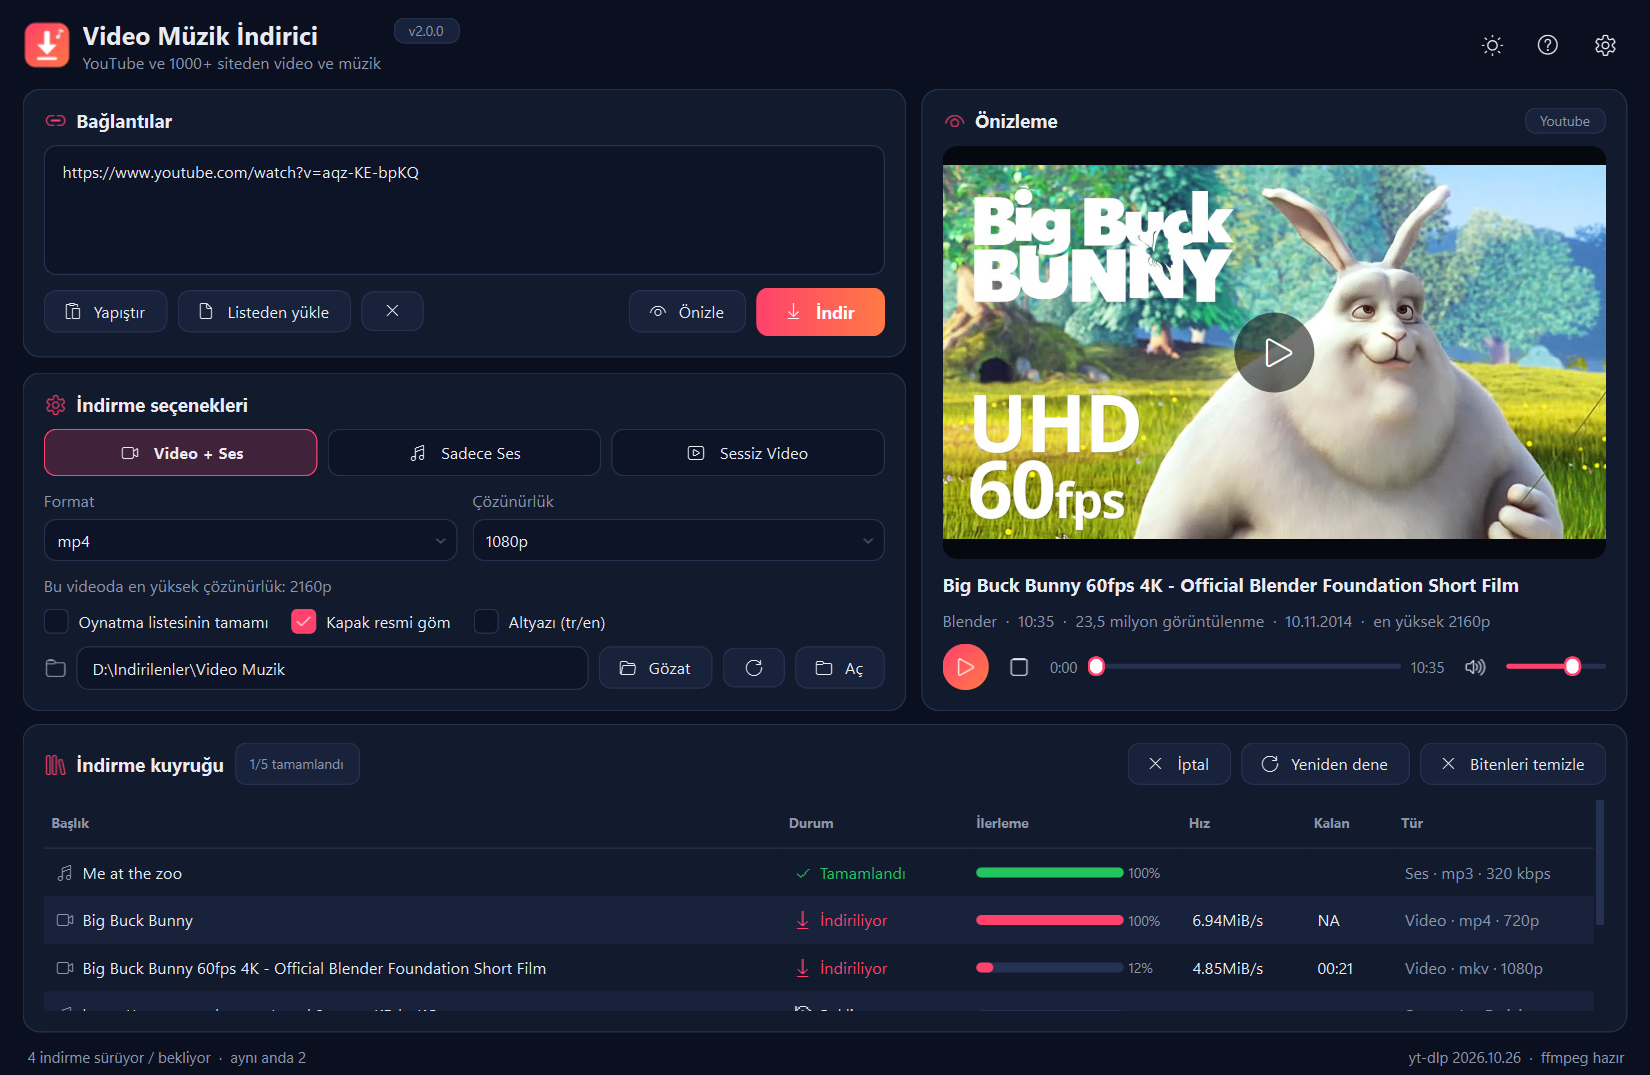
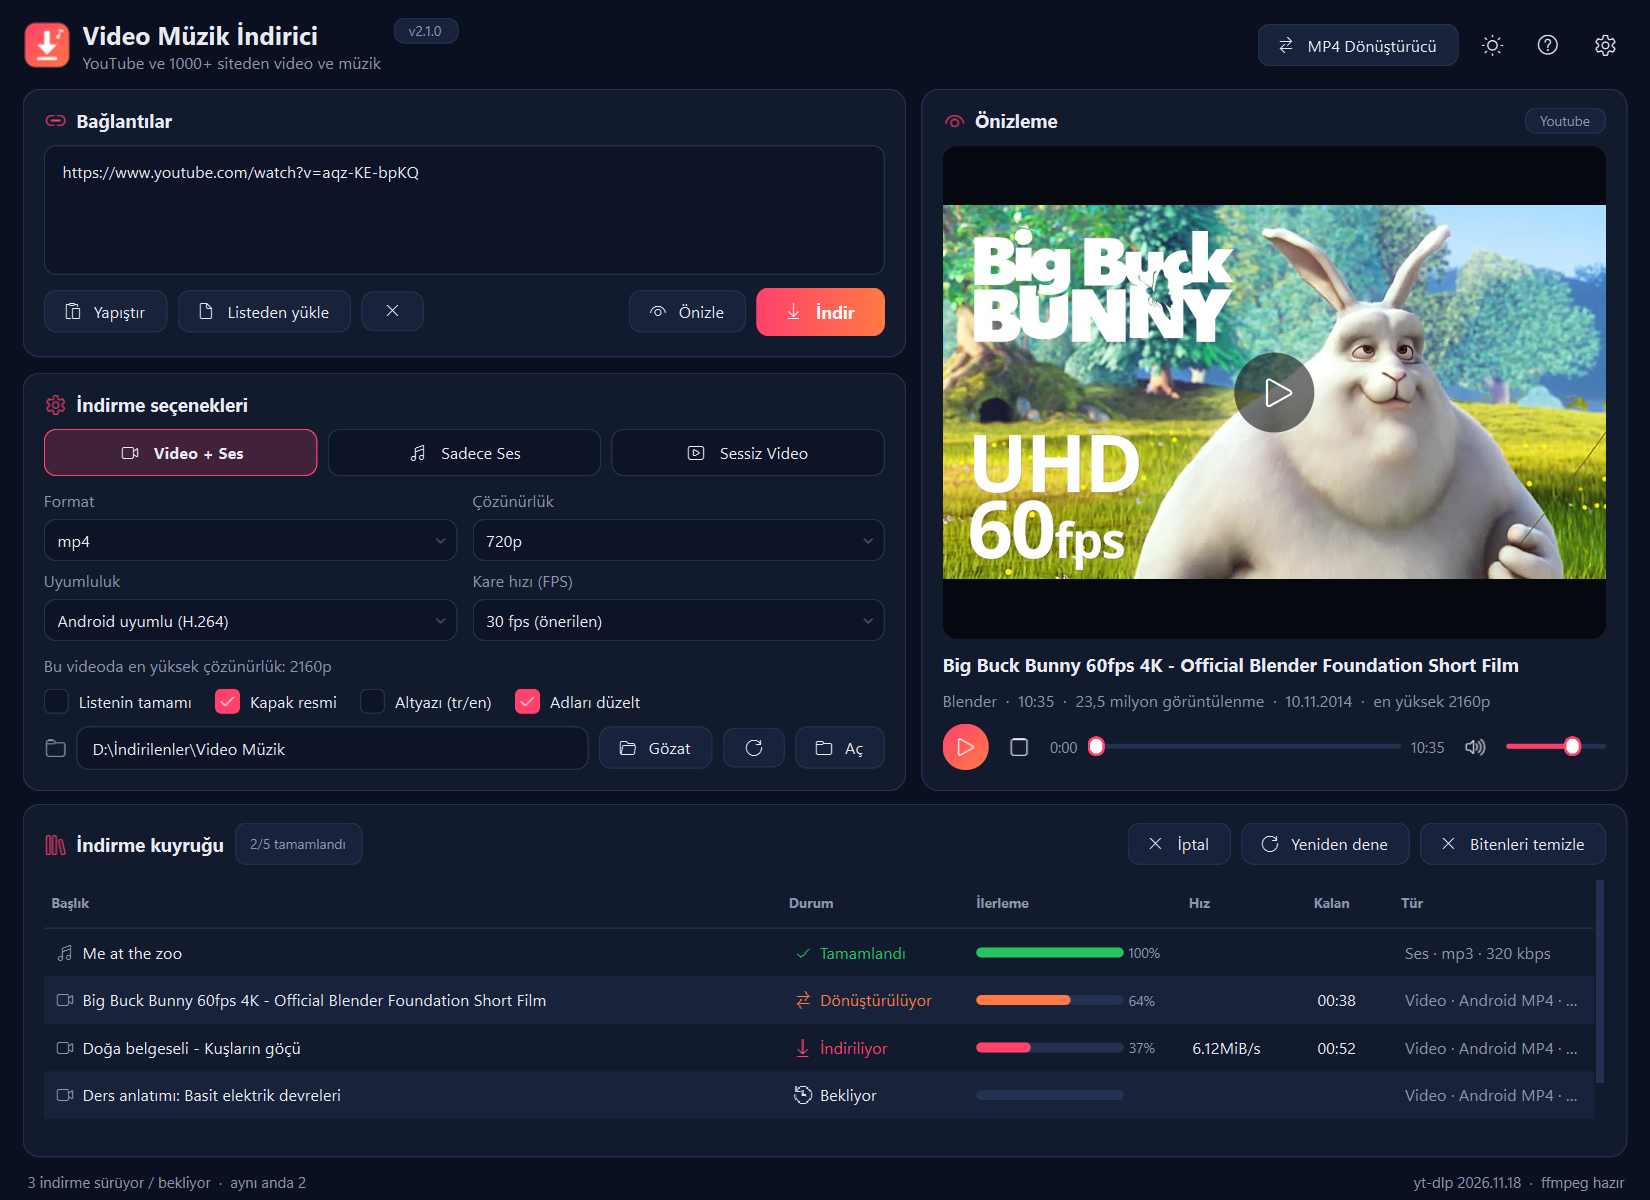
Belgeler 2.1.0'a göre güncellendi: yeni ekran görüntüleri, SSS ve teknik bilgi
- Ekran görüntüleri 2.1.0 arayüzüyle yenilendi (Uyumluluk / FPS seçenekleri,
  MP4 Dönüştürücü düğmesi); MP4 Dönüştürücü penceresi görseli eklendi
- SSS: "ses var görüntü yok", görünmeyen dosya/klasör ve "Dönüştürülüyor"
  soruları eklendi; eski format önerileri düzeltildi
- TEKNIK: Android uyumluluğu ve dönüştürme bölümü (ffprobe, compat_plan, FFmpeg ayarları)
- tools/ekran-goruntuleri.py: belge görsellerini örnek verilerle yeniden üretir

diff --git a/tools/ekran-goruntuleri.py b/tools/ekran-goruntuleri.py
@@ -1,0 +1,116 @@
+# Belgelerdeki ekran görüntülerini üretir: gerçek arayüz, örnek verilerle (indirme yapılmaz).
+# Kullanım (depo kökünde):  python tools/ekran-goruntuleri.py          -> koyu tema + diğer pencereler
+#                           python tools/ekran-goruntuleri.py light    -> açık tema ana ekran
+# Çıktı: docs/img/*.png. Ayarlar geçici klasörde tutulur; kullanıcının kendi ayarlarına dokunulmaz.
+import os, sys, tempfile, re
+REPO = os.path.dirname(os.path.dirname(os.path.abspath(__file__)))
+OUT = os.path.join(REPO, "docs", "img")
+os.environ["APPDATA"] = tempfile.mkdtemp(prefix="vmi-ekran-")
+sys.path.insert(0, REPO)
+
+import core, ui_qt
+from ui_qt import *  # noqa
+from PySide6.QtCore import QTimer, Qt
+from PySide6.QtGui import QPixmap
+from PySide6.QtWidgets import QApplication
+
+ui_qt.find_exe = lambda n: rf"C:\araclar\{n}.exe"
+ui_qt.MainWindow._tools_ready = lambda self, j: None
+core.Downloader.add = lambda self, j: None
+THEME = sys.argv[1] if len(sys.argv) > 1 else "dark"
+
+def thumb_bytes():
+    return core.fetch_bytes("https://i.ytimg.com/vi/aqz-KE-bpKQ/maxresdefault.jpg")
+
+def latest_notes():
+    log = open(os.path.join(REPO, "CHANGELOG.md"), encoding="utf-8").read()
+    parts = re.findall(r"^## \[([^\]]+)\][^\n]*\n(.*?)(?=^## \[|\Z)", log, re.S | re.M)
+    (ver, notes), prev = parts[0], (parts[1][0] if len(parts) > 1 else "")
+    return ver, prev, notes.strip()
+
+
+app = ui_qt.create_app()
+s = core.load_settings()
+s["theme"] = THEME
+s["folder"] = r"D:\İndirilenler\Video Müzik"
+core.save_settings(s)
+win = ui_qt.MainWindow()
+win.dl.active_count = lambda: 3
+win.ytdlp_ver = "2026.11.18"
+win.resize(1320, 960)
+win.show()
+win.folder_edit.setText(r"D:\İndirilenler\Video Müzik")
+
+URL = "https://www.youtube.com/watch?v=aqz-KE-bpKQ"
+win.url_edit.blockSignals(True)
+win.url_edit.setPlainText(URL)
+win.url_edit.blockSignals(False)
+
+def fill():
+    win.preview_token = 1
+    win._on_probe(1, True, {
+        "url": URL, "title": "Big Buck Bunny 60fps 4K - Official Blender Foundation Short Film",
+        "is_playlist": False, "playlist_title": "", "count": 0, "uploader": "Blender",
+        "duration": 635, "views": 23500000, "date": "20141110", "heights": [2160, 1440, 1080, 720],
+        "site": "Youtube", "thumbnail": "", "has_video": True})
+    win._on_thumb(1, True, thumb_bytes())
+
+    base = dict(win._current_opts())
+    def job(title, status, pct="", speed="", eta="", **o):
+        opts = dict(base); opts.update(o)
+        j = win._enqueue("https://www.youtube.com/watch?v=x", opts, title)
+        j.status, j.percent, j.speed, j.eta = status, pct, speed, eta
+        win._refresh_row(j)
+    job("Me at the zoo", "Tamamlandı", "100%", type="Sadece Ses", aformat="mp3", aquality="320 kbps")
+    job("Big Buck Bunny 60fps 4K - Official Blender Foundation Short Film", "Dönüştürülüyor", "64%", "", "00:38")
+    job("Doğa belgeseli - Kuşların göçü", "İndiriliyor", "37%", "6.12MiB/s", "00:52")
+    job("Ders anlatımı: Basit elektrik devreleri", "Bekliyor")
+    job("Çocuk şarkıları derlemesi", "Tamamlandı", "100%")
+    win.refresh_status()
+
+def shot_main():
+    fill()
+    QTimer.singleShot(600, lambda: grab_main())
+
+def grab_main():
+    win.grab().save(os.path.join(OUT, f"ana-ekran-{THEME}.png"))
+    if THEME != "dark":
+        os._exit(0); return
+    # önizleme kartı
+    card = win.stack.parentWidget()
+    while card is not None and not isinstance(card, ui_qt.Card):
+        card = card.parentWidget()
+    card.grab().save(os.path.join(OUT, "onizleme.png"))
+    # dönüştürücü
+    dlg = ui_qt.ConverterDialog(win)
+    rows = [
+        ("Çocuk şarkıları - 1. bölüm 🎵 ｜ Eğlenceli [Xy12AbC].webm", "Tamamlandı", "100", "VP9 1920x1080 60fps → H.264 720p 30fps"),
+        ("Doğa belgeseli ： Kuşlar.mkv", "Dönüştürülüyor", "58", "AV1 1920x1080 30fps → H.264 720p 30fps"),
+        ("Tatil 2025.mp4", "Kopyalanıyor", "81", "Zaten uyumlu → kopyalanıyor"),
+        ("Masal saati ⧸ Uyku öncesi.mp4", "Bekliyor", "", ""),
+        ("Okul gösterisi.mov", "Bekliyor", "", ""),
+    ]
+    for name, st, pct, info in rows:
+        j = core.ConvJob(os.path.join(r"D:\Videolar", name), {})
+        j.status, j.percent, j.info = st, pct, info
+        dlg.jobs[j.id] = j
+        dlg._add_row(j)
+    dlg._refresh_state()
+    dlg.show()
+    QTimer.singleShot(500, lambda: (dlg.grab().save(os.path.join(OUT, "donusturucu.png")), dlg.hide(), shot_settings()))
+
+def shot_settings():
+    d = ui_qt.SettingsDialog(win)
+    d.show()
+    QTimer.singleShot(400, lambda: (d.grab().save(os.path.join(OUT, "ayarlar.png")), d.hide(), shot_update()))
+
+def shot_update():
+    ver, prev, notes = latest_notes()
+    ui_qt.APP_VERSION = prev
+    ui_qt.FROZEN = True
+    d = ui_qt.UpdateDialog(win, {"version": ver, "notes": notes, "page": ""})
+    d.show()
+    QTimer.singleShot(400, lambda: (d.grab().save(os.path.join(OUT, "guncelleme.png")), os._exit(0)))
+
+QTimer.singleShot(800, shot_main)
+app.exec()

diff --git a/docs/TEKNIK.md b/docs/TEKNIK.md
@@ -10,6 +10,7 @@ Bu sayfa uygulamanın nasıl çalıştığını, dosyalarını nerede tuttuğunu
 - [Dosya ve klasör konumları](#dosya-ve-klasör-konumları)
 - [yt-dlp ve FFmpeg'in bulunması ve kurulumu](#yt-dlp-ve-ffmpegin-bulunması-ve-kurulumu)
 - [Kullanılan yt-dlp ayarları](#kullanılan-yt-dlp-ayarları)
+- [Android uyumluluğu ve dönüştürme](#android-uyumluluğu-ve-dönüştürme)
 - [Kesinti ve yeniden deneme mantığı](#kesinti-ve-yeniden-deneme-mantığı)
 - [Önizleme](#önizleme)
 - [Uygulama güncellemesi](#uygulama-güncellemesi)
@@ -27,7 +28,7 @@ Uygulama üç Python dosyasından oluşur:
 |---|---|
 | `indirici.pyw` | Giriş noktası; yalnızca arayüzü başlatır |
 | `core.py` | Arayüzden bağımsız çekirdek: indirme kuyruğu ve yt-dlp çalıştırma, yeniden deneme, ayarlar, kalıcı kuyruk, araç kurulumu, yt-dlp güncelleme, önizleme bilgisi/akış adresi, uygulama güncellemesi. Yalnızca standart kütüphaneyi kullanır |
-| `ui_qt.py` | **PySide6 (Qt 6)** arayüzü: tema/stil (QSS), kartlar, kuyruk tablosu, önizleme oynatıcısı (`QMediaPlayer` + `QVideoWidget`), ayarlar/güncelleme/kurulum pencereleri |
+| `ui_qt.py` | **PySide6 (Qt 6)** arayüzü: tema/stil (QSS), kartlar, kuyruk tablosu, önizleme oynatıcısı (`QMediaPlayer` + `QVideoWidget`), ayarlar/güncelleme/kurulum pencereleri, MP4 Dönüştürücü penceresi |
 
 ```
 ┌────────────────────────── Arayüz (Qt, ana iş parçacığı) ───────────────────────────────┐
@@ -107,13 +108,44 @@ Türe göre eklenenler:
 | Seçim | Eklenen ayarlar |
 |---|---|
 | Video + Ses | `-f "bv*+ba/b" --merge-output-format <fmt>` ve `-S "res:<yükseklik>[,ext:mp4:m4a]"`; mp4/mkv için `--remux-video <fmt>` |
-| Sadece Video | `-f "bv/b"` ve aynı `-S` sıralaması |
+| Sessiz Video | `-f "bv/b"` ve aynı `-S` sıralaması |
+| Uyumluluk: Android uyumlu | Format `mp4`'e sabitlenir; `-S` sıralamasının başına `vcodec:h264,acodec:aac` eklenir |
+| Kare hızı (25 / 30 / 60 fps) | `-S` sıralamasına `fps:<N>` eklenir (üst sınır olarak tercih edilir) |
 | Sadece Ses | `-f "ba/b" -x --audio-format <fmt> --audio-quality <0 \| 320K …>` |
 | Kapak resmi | `--embed-thumbnail --convert-thumbnails jpg` (mp3, m4a, opus, flac, mp4, mkv) |
 | Altyazı | `--write-subs --sub-langs "tr.*,en.*" --embed-subs` |
 | Oynatma listesi | `--yes-playlist` ve `-o "%(playlist_title)s/%(playlist_index)03d - %(title)s [%(id)s].%(ext)s"`; değilse `--no-playlist` |
 
 Çözünürlük `-f` filtresi yerine `-S res:N` **sıralaması** ile uygulanır: bu yöntem tam eşleşme yoksa hata vermek yerine N'nin altındaki en iyi kaliteyi seçer.
+
+## Android uyumluluğu ve dönüştürme
+
+2.1 sürümüyle gelen bu katman, inen videonun **her cihazda görüntülü** oynamasını sağlar (Android 9 ve öncesi AV1 oynatamaz; eski cihazlar 1080p/60 fps'te görüntü veremez).
+
+1. **İndirmeden önce:** *Android uyumlu* modda yt-dlp'ye H.264 + AAC akışlarını öne alan `-S vcodec:h264,acodec:aac,res:N,fps:N,ext:mp4:m4a` sıralaması verilir.
+2. **İndirmeden sonra:** dosya `ffprobe` ile incelenir (`probe_media`: kodek, çözünürlük, FPS, piksel biçimi, profil, ses kodeki). `compat_plan` üç sonuçtan birini verir:
+
+| Sonuç | Koşul | Yapılan |
+|---|---|---|
+| `ok` | H.264, `yuv420p`, 8 bit, sınırlar içinde; ses AAC/MP3; kap MP4 | Dokunulmaz |
+| `remux` | Video uygun, yalnızca kap veya ses uygun değil | `-c:v copy`, ses gerekirse AAC'ye çevrilir |
+| `encode` | AV1/VP9/H.265, 10 bit, seçilen çözünürlük veya FPS sınırının üstü | Yeniden kodlanır |
+
+3. **Dönüştürme (`transcode`)** FFmpeg ayarları:
+
+```
+-map 0:<asıl video akışı> -map 0:a:0? -sn -dn
+-vf scale=-2:'min(<yükseklik>,ih)',fps=<N>,format=yuv420p
+-c:v libx264 -profile:v main (1080p üstünde high) -level 3.0/3.1/4.0/5.1 -preset veryfast -crf 23
+-c:a aac -b:a 128k -ac 2   (ses zaten AAC ise -c:a copy)
+-movflags +faststart -progress pipe:1
+```
+
+   Kapak resmi akışı (`attached_pic`) video olarak seçilmez. İlerleme `-progress` çıktısındaki `out_time_us` ile hesaplanır; iptalde süreç sonlandırılır ve yarım dosya silinir. Durum sütununda *Dönüştürülüyor* görünür.
+
+4. **Dosya adı düzeltme (`clean_filename`):** NFC normalleştirme, sondaki 11 karakterlik `[YouTube kimliği]`, BMP dışı karakterler (emoji), simge blokları ve yt-dlp'nin Windows için koyduğu `｜ ⧸ ：` gibi tam genişlik karakterler temizlenir/` - ` ile değiştirilir. Aynı adda dosya varsa `unique_path` `(2)` eki verir.
+
+**MP4 Dönüştürücü** (`ConverterDialog` + `core.Converter`) aynı `probe_media → compat_plan → transcode` zincirini yerel dosyalara uygular: `collect_videos` klasörleri tarar, `ok` sonuçlu dosyalar (*Zaten uyumlu olanları kopyala* açıksa) kayıpsız kopyalanır, çıktılar varsayılan olarak her videonun yanındaki `Android uyumlu` (`CONV_SUBDIR`) klasörüne yazılır; bu klasördeki dosyalar tekrar listeye alınmaz. Pencere kapatılınca dönüştürme arka planda sürer.
 
 ## Kesinti ve yeniden deneme mantığı
 
@@ -215,6 +247,7 @@ video-muzik-indirici/
 ├── indirici.ico / .png     # uygulama simgesi
 ├── build.bat               # exe derleme (+ imzalama, SHA-256) betiği
 ├── tools/imzala.ps1        # ortak kod imzalama betiği
+├── tools/ekran-goruntuleri.py  # docs/img ekran görüntülerini örnek verilerle yeniden üretir
 ├── README.md
 ├── CHANGELOG.md
 ├── LICENSE
@@ -225,5 +258,7 @@ video-muzik-indirici/
     ├── IMZALAMA.md
     └── img/                # ekran görüntüleri
 ```
+
+Yeni sürümde arayüz değiştiyse ekran görüntülerini yenilemek için depo kökünde `python tools/ekran-goruntuleri.py` ve `python tools/ekran-goruntuleri.py light` çalıştırın. Betik gerçek arayüzü örnek verilerle açar, indirme yapmaz ve ayarlarınıza dokunmaz (`kurulum.png` elle alınır).
 
 Katkılar memnuniyetle karşılanır: [Issues](https://github.com/mehmet-cizmeci/video-muzik-indirici/issues) üzerinden öneri veya hata bildirebilir, Pull Request gönderebilirsiniz.

diff --git a/docs/SSS.md b/docs/SSS.md
@@ -42,6 +42,9 @@
 - [Seçtiğim çözünürlükte inmedi](#seçtiğim-çözünürlükte-inmedi)
 - [Videonun sesi yok](#videonun-sesi-yok)
 - [Video telefonumda / TV'de açılmıyor](#video-telefonumda--tvde-açılmıyor)
+- [Ses geliyor ama görüntü yok (telefon, tablet, TV)](#ses-geliyor-ama-görüntü-yok-telefon-tablet-tv)
+- [Telefonda dosya ya da klasör görünmüyor](#telefonda-dosya-ya-da-klasör-görünmüyor)
+- [Durum "Dönüştürülüyor" yazıyor, neden bekliyorum?](#durum-dönüştürülüyor-yazıyor-neden-bekliyorum)
 - [İndirilen dosyalar nerede?](#i̇ndirilen-dosyalar-nerede)
 - [Klasörde .part veya .ytdl uzantılı dosyalar var](#klasörde-part-veya-ytdl-uzantılı-dosyalar-var)
 - [Kapak resmi görünmüyor](#kapak-resmi-görünmüyor)
@@ -236,17 +239,34 @@ Uygulama ikonları Windows'un yerleşik ikon yazı tipiyle çizilir (Windows 11'
 
 Seçilen çözünürlük bir **üst sınırdır**. Video o çözünürlükte yoksa, altındaki en iyi kalite indirilir. Örneğin 720p yüklenmiş bir videoda 1080p seçmek 720p dosya verir.
 
-`mp4` formatında, uyumluluk için H.264/AV1 + AAC akışları tercih edilir. YouTube'da 1440p ve 4K genellikle yalnızca VP9 ile sunulduğundan bu çözünürlükler için **mkv** seçin.
+**Uyumluluk: Android uyumlu** (varsayılan) seçiliyken video her zaman H.264 MP4 olarak hazırlanır; YouTube 1440p ve 4K'yı genellikle yalnızca VP9/AV1 ile sunduğu için bu çözünürlükler indirme sonunda dönüştürülür ve uzun sürebilir. En yüksek kaliteyi olduğu gibi almak istiyorsanız **Uyumluluk: Orijinal** ve format olarak **mkv** seçin.
+
+Kare hızı da bir üst sınırdır: **30 fps** seçiliyken 60 fps'lik video 30 fps'e düşürülür. Orijinal akıcılık için **Kare hızı: Orijinal** seçin.
 
 ### Videonun sesi yok
 
-**İndirme türü** olarak `Sadece Video (sessiz)` seçilmiş olabilir. `Video + Ses` seçip yeniden indirin.
+**İndirme türü** olarak `Sessiz Video` seçilmiş olabilir. `Video + Ses` seçip yeniden indirin.
 
 Ses var ama bazı oynatıcılarda duyulmuyorsa, dosya `opus` ses içeriyor olabilir; [VLC](https://www.videolan.org/) ile açmayı deneyin veya `mp4` formatını kullanın.
 
 ### Video telefonumda / TV'de açılmıyor
 
-Formatı **mp4** seçin. mkv ve webm dosyaları bazı cihazlarda desteklenmez. 4K/AV1 videolar eski cihazlarda donabilir; 1080p seçmeyi deneyin.
+2.1 sürümünden itibaren varsayılan ayarlar (**Uyumluluk: Android uyumlu**, **720p**, **30 fps**, **Adları düzelt** açık) her cihazda oynayan dosya üretir. Bu ayarları değiştirdiyseniz geri alın.
+
+### Ses geliyor ama görüntü yok (telefon, tablet, TV)
+
+YouTube artık birçok videoyu **AV1** biçiminde veriyor; Android 9 ve öncesi bu biçimi oynatamaz. Eski veya düşük güçlü cihazlar **1080p / 60 fps** videolarda da görüntüyü gösteremeyebilir.
+
+- Yeni indirmeler için: **Uyumluluk: Android uyumlu**, **Kare hızı: 30 fps**, **Çözünürlük: 720p** seçin (varsayılanlar bunlardır).
+- Daha önce indirdiğiniz videolar için: üst çubuktaki **MP4 Dönüştürücü** ile videoları seçip **Dönüştür**'e basın. Orijinallere dokunulmaz; çıktılar videonun yanındaki `Android uyumlu` klasörüne yazılır. Ayrıntı: [Kullanım Kılavuzu › MP4 Dönüştürücü](KULLANIM-KILAVUZU.md#13a-mp4-dönüştürücü).
+
+### Telefonda dosya ya da klasör görünmüyor
+
+Emoji veya `｜ ⧸ ：` gibi karakterler içeren dosya adları bazı cihazlarda dosyanın, hatta bütün klasörün okunamamasına yol açar. **Adları düzelt** kutusu açıkken (varsayılan) bu karakterler ve sondaki `[video kimliği]` dosya adından temizlenir. Eski dosyalar için MP4 Dönüştürücü'de **Dosya adlarını düzelt** kutusunu açık bırakın.
+
+### Durum "Dönüştürülüyor" yazıyor, neden bekliyorum?
+
+İnen video Android uyumlu değilse (AV1/VP9, seçilen kare hızı veya çözünürlük sınırının üstünde) indirme sonunda FFmpeg ile H.264 MP4'e çevrilir. Süre videonun uzunluğuna ve bilgisayarın hızına bağlıdır; satırda ilerleme görünür ve iptal edilebilir. Bekleme istemiyorsanız **Uyumluluk: Orijinal** seçin (dosya bazı cihazlarda oynamayabilir).
 
 ### İndirilen dosyalar nerede?
 

diff --git a/README.md b/README.md
@@ -72,7 +72,7 @@
 > **"Windows bilgisayarınızı korudu" uyarısı çıkarsa:** Uygulama ücretli bir kod imzalama sertifikasıyla imzalanmadığı için Windows SmartScreen ilk çalıştırmada uyarı gösterebilir. **Ek bilgi → Yine de çalıştır** seçeneğine tıklayın. Ayrıntılar: [SSS](docs/SSS.md#windows-bilgisayarınızı-korudu-uyarısı-çıkıyor), [İmza durumu](docs/IMZALAMA.md).
 
 > [!TIP]
-> **1.x sürümünden geçiş:** 1.0.0 kendini güncelleyemez; 2.0.0'ı bir kez elle indirip eski exe'nin yerine koyun. Ayarlarınız ve yarım kalan indirmeleriniz korunur. Bundan sonraki sürümler otomatik gelir.
+> **1.x sürümünden geçiş:** 1.0.0 kendini güncelleyemez; son sürümü bir kez elle indirip eski exe'nin yerine koyun. Ayarlarınız ve yarım kalan indirmeleriniz korunur. Bundan sonraki sürümler otomatik gelir.
 
 ## Kısaca kullanım
 
@@ -129,6 +129,8 @@ YouTube artık birçok videoyu **AV1** biçiminde veriyor. Android 9 ve öncesi 
 | **Uyumluluk** | Android uyumlu (H.264) | H.264 + AAC MP4 indirilir; gelen video yine de uyumsuzsa indirme sonunda otomatik dönüştürülür. *Orijinal* seçilirse sitenin en iyi biçimi (AV1/VP9 olabilir) iner. |
 | **Kare hızı (FPS)** | 30 fps | 25 fps, Orijinal veya 60 fps de seçilebilir. 25/30 fps her cihazda akıcıdır. |
 | **Adları düzelt** | Açık | Emoji, garip karakterler ve sondaki `[video kimliği]` dosya adından temizlenir. |
+
+<img src="docs/img/donusturucu.png" alt="MP4 Dönüştürücü penceresi" width="720">
 
 **MP4 Dönüştürücü** (üst çubuktaki düğme) aynı işlemi bilgisayardaki videolara uygular: dosya veya klasör ekleyin (ya da sürükleyin), çözünürlük (720p önerilir) ve FPS sınırını seçin, **Dönüştür**'e basın. Zaten uyumlu olan videolar kalite kaybı olmadan kopyalanır. Orijinal dosyalara dokunulmaz; çıktılar varsayılan olarak videonun yanındaki **`Android uyumlu`** klasörüne yazılır.
 

diff --git a/docs/KULLANIM-KILAVUZU.md b/docs/KULLANIM-KILAVUZU.md
@@ -350,6 +350,8 @@ YouTube ve diğer siteler sık değişir; **"bir anda hiçbir video inmiyor"** d
 
 Üst çubuktaki **MP4 Dönüştürücü** düğmesi, bilgisayarınızdaki videoları (mkv, webm, avi, mov, mp4…) her cihazda görüntülü oynayan MP4'e (H.264 + AAC) çevirir.
 
+<img src="img/donusturucu.png" alt="MP4 Dönüştürücü penceresi" width="720">
+
 1. **Dosya ekle** veya **Klasör ekle**'ye basın ya da videoları pencereye sürükleyin.
 2. **Çözünürlük** (en fazla; 720p önerilir, küçük videolar büyütülmez) ve **Kare hızı** seçin.
 3. **Dosya adlarını düzelt** ve **Zaten uyumlu olanları dönüştürmeden kopyala** kutuları varsayılan olarak açıktır.
